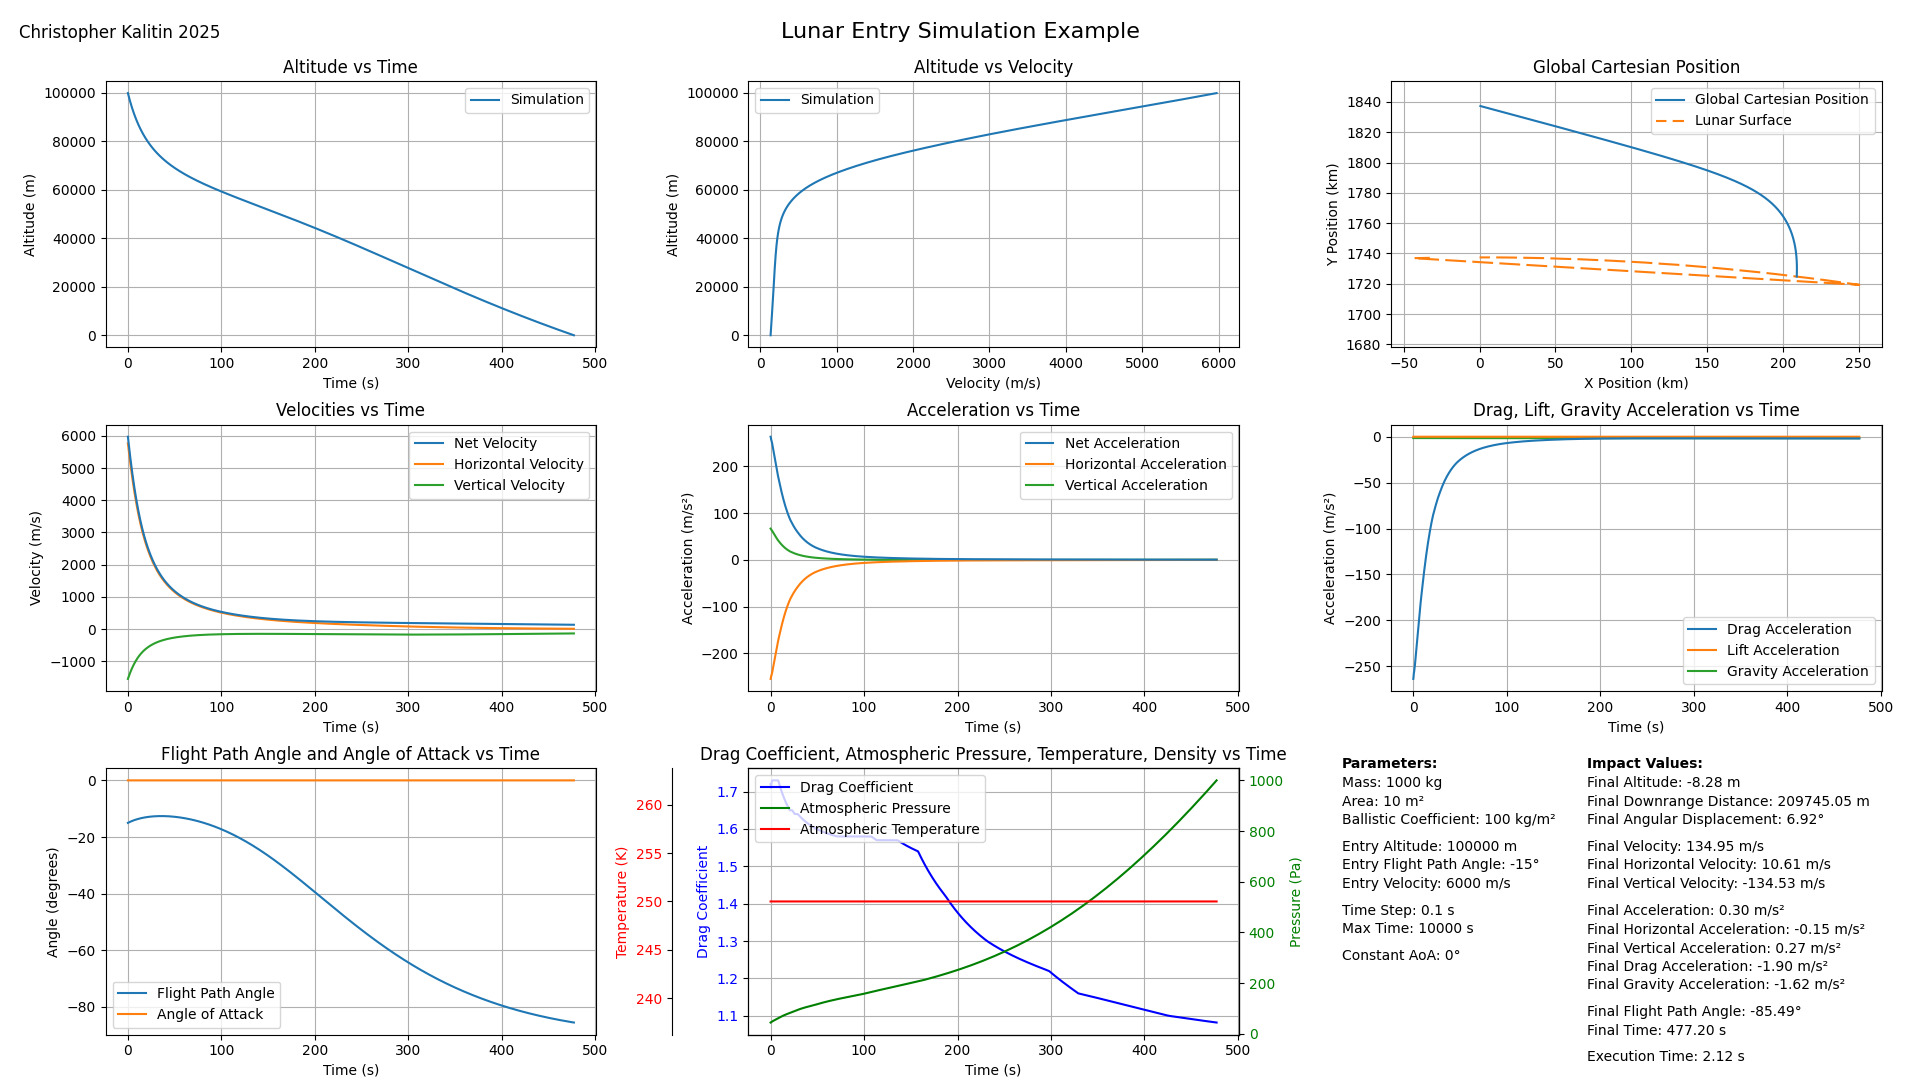
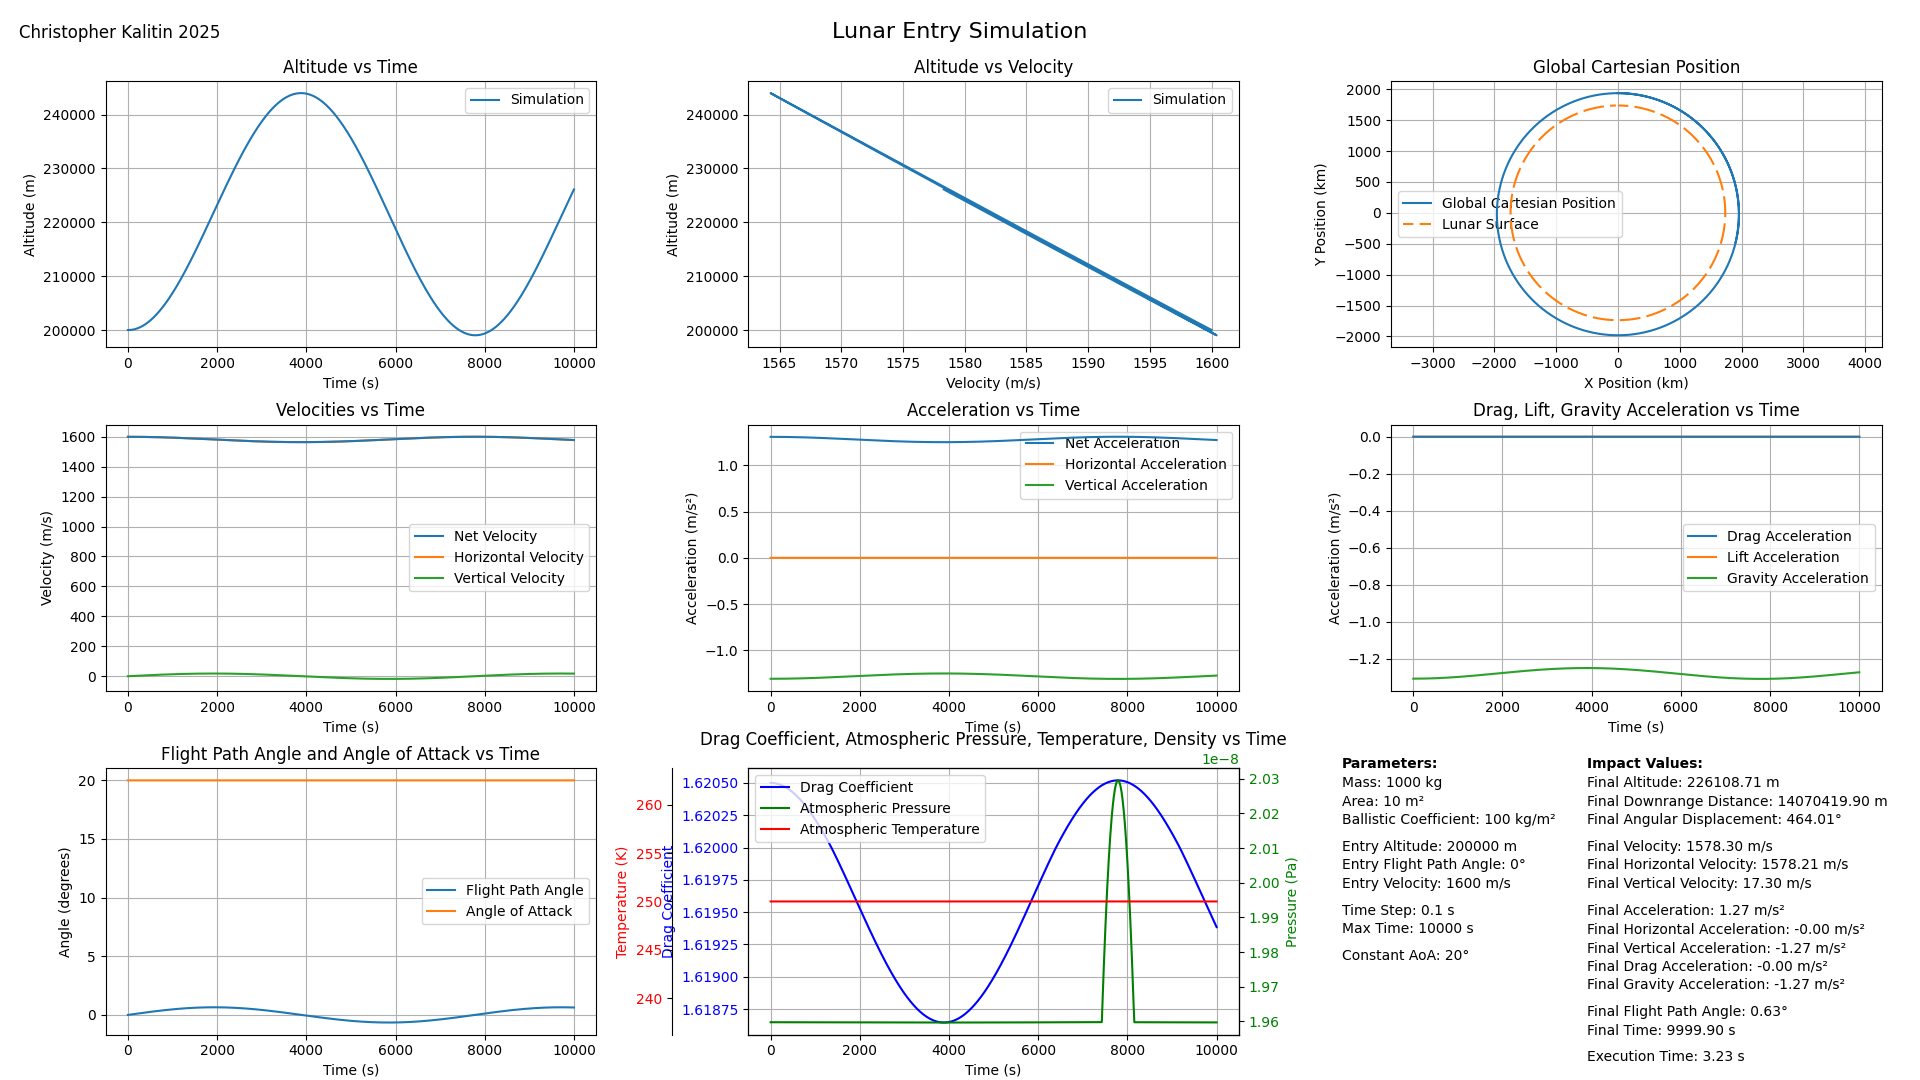
More testing & remove print

diff --git a/Project/lunar_atmosphere.py b/Project/lunar_atmosphere.py
@@ -103,20 +103,23 @@ def set_aerodynamic_parameters(sim_parameters: utils_data.SimParameters, vehicle
 
 sim_parameters = utils_data.SimParameters(body='Lunar')
 set_body_parameters(sim_parameters)
-set_body_pressure(sim_parameters, surface_pressure=1e3)
+set_body_pressure(sim_parameters, surface_pressure=1e-5)
 set_aerodynamic_parameters(sim_parameters, vehicle='blunt_body')
 
 data, params = sim_polar.simulate(
     sim_parameters=sim_parameters,
     mass=1000,
     area=10,
-    entry_altitude=100000,
-    entry_flight_path_angle=-15,
-    entry_velocity=6000,
-    aoa_function=0,
+    entry_altitude=200000,
+    entry_flight_path_angle=0,
+    entry_velocity=1600,
+    aoa_function=20,
     time_step=0.1,
     time_max=10000,
     verbose=False,
 )
 
-sim_polar.plot(sim_parameters, data, params, title="Lunar Entry Simulation Example", file_name="lunar_test.png", show=True)
+# 1591 m/s is orbital velocity at 200 km.
+# 1600 m/s is 243x200 km, if starting at 200 km.
+
+sim_polar.plot(sim_parameters, data, params, title="Lunar Entry Simulation", file_name="lunar_test.png", show=True)

diff --git a/Project/sim_polar.py b/Project/sim_polar.py
@@ -135,8 +135,6 @@ def simulate(sim_parameters, mass, area, entry_altitude, entry_flight_path_angle
         vel_rad_m, vel_ang_m = temp_vel_rad_m, temp_vel_ang_m
         
         t += time_step
-        
-        time.sleep(0.1)
 
     parameters = {'mass': mass, 'area': area, 'ballistic_coefficient': mass/area, 'entry_altitude': entry_altitude, 'entry_flight_path_angle': entry_flight_path_angle, 'entry_velocity': entry_velocity, 'time_step': time_step, 'time_max': time_max}
     

diff --git a/Project/utils_sim.py b/Project/utils_sim.py
@@ -49,7 +49,6 @@ class SimUtils:
             pressure = self.get_atmospheric_pressure(alt)
         if temperature is None:
             temperature = self.get_temperature(alt)
-        print(pressure)
         
         r = utils_data.UNIVERSAL_GAS_CONSTANT / (self.sim_parameters.atmospheric_molar_mass / 1000) # About 192.1 g/mol
     
